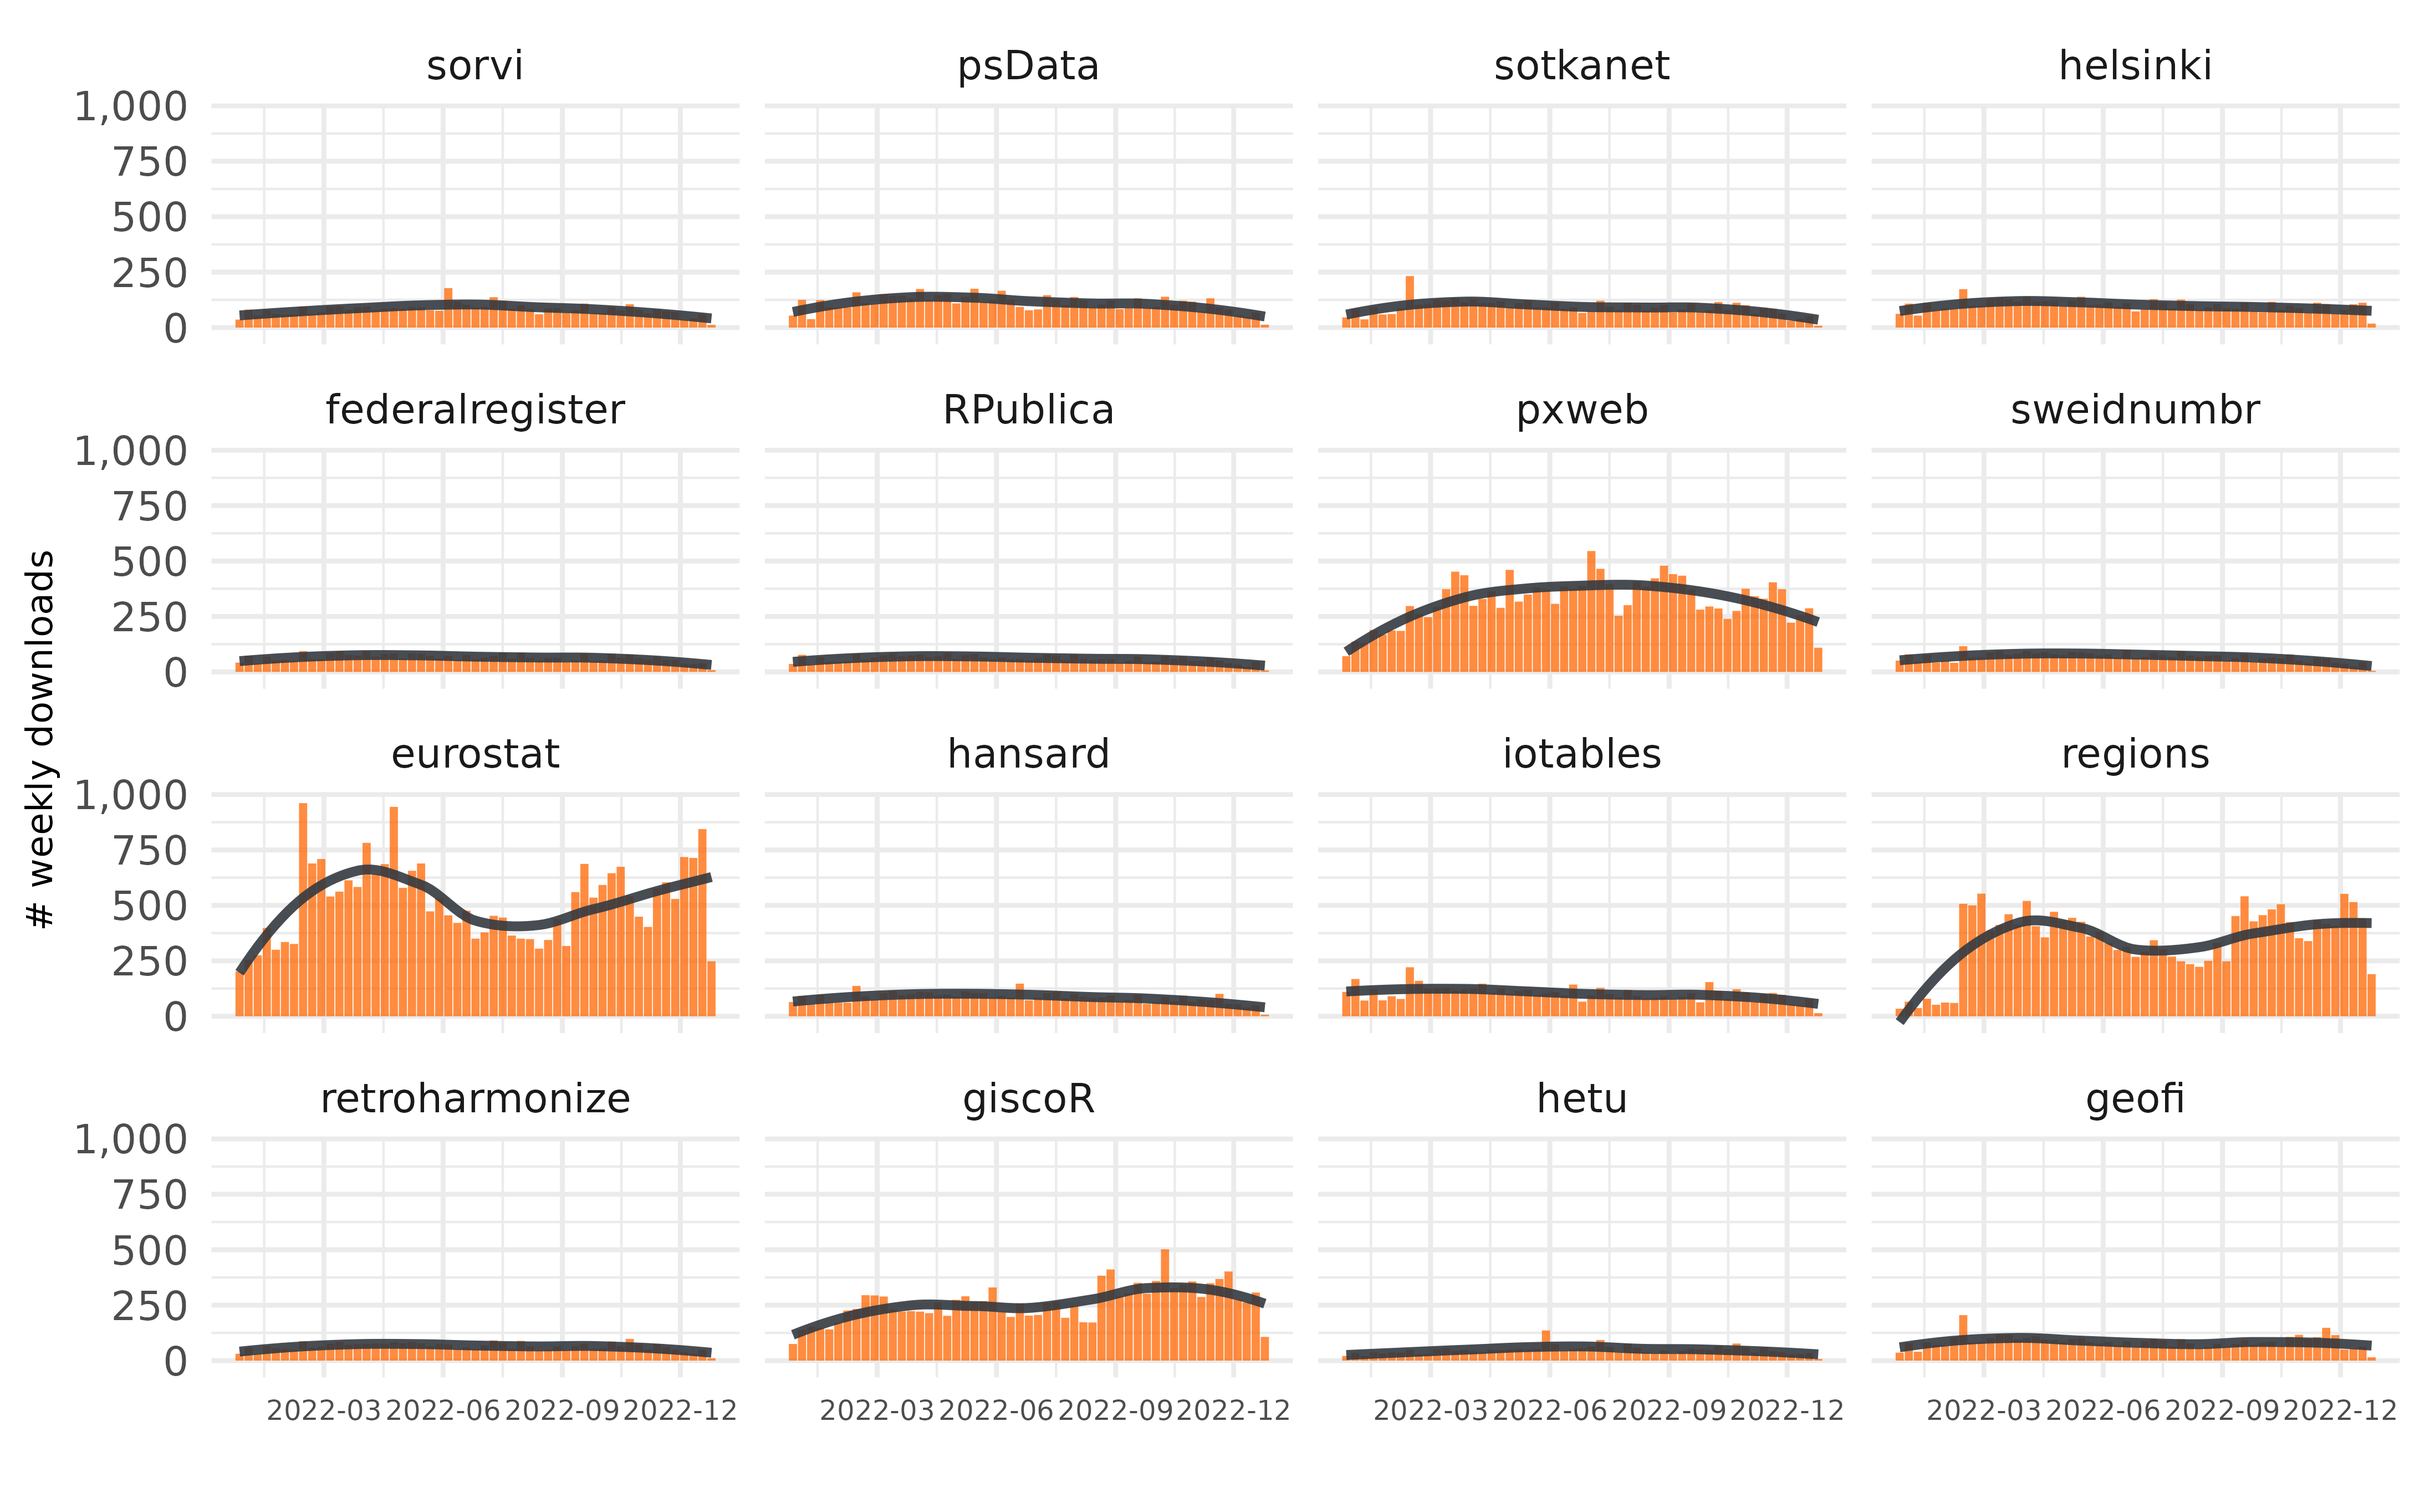
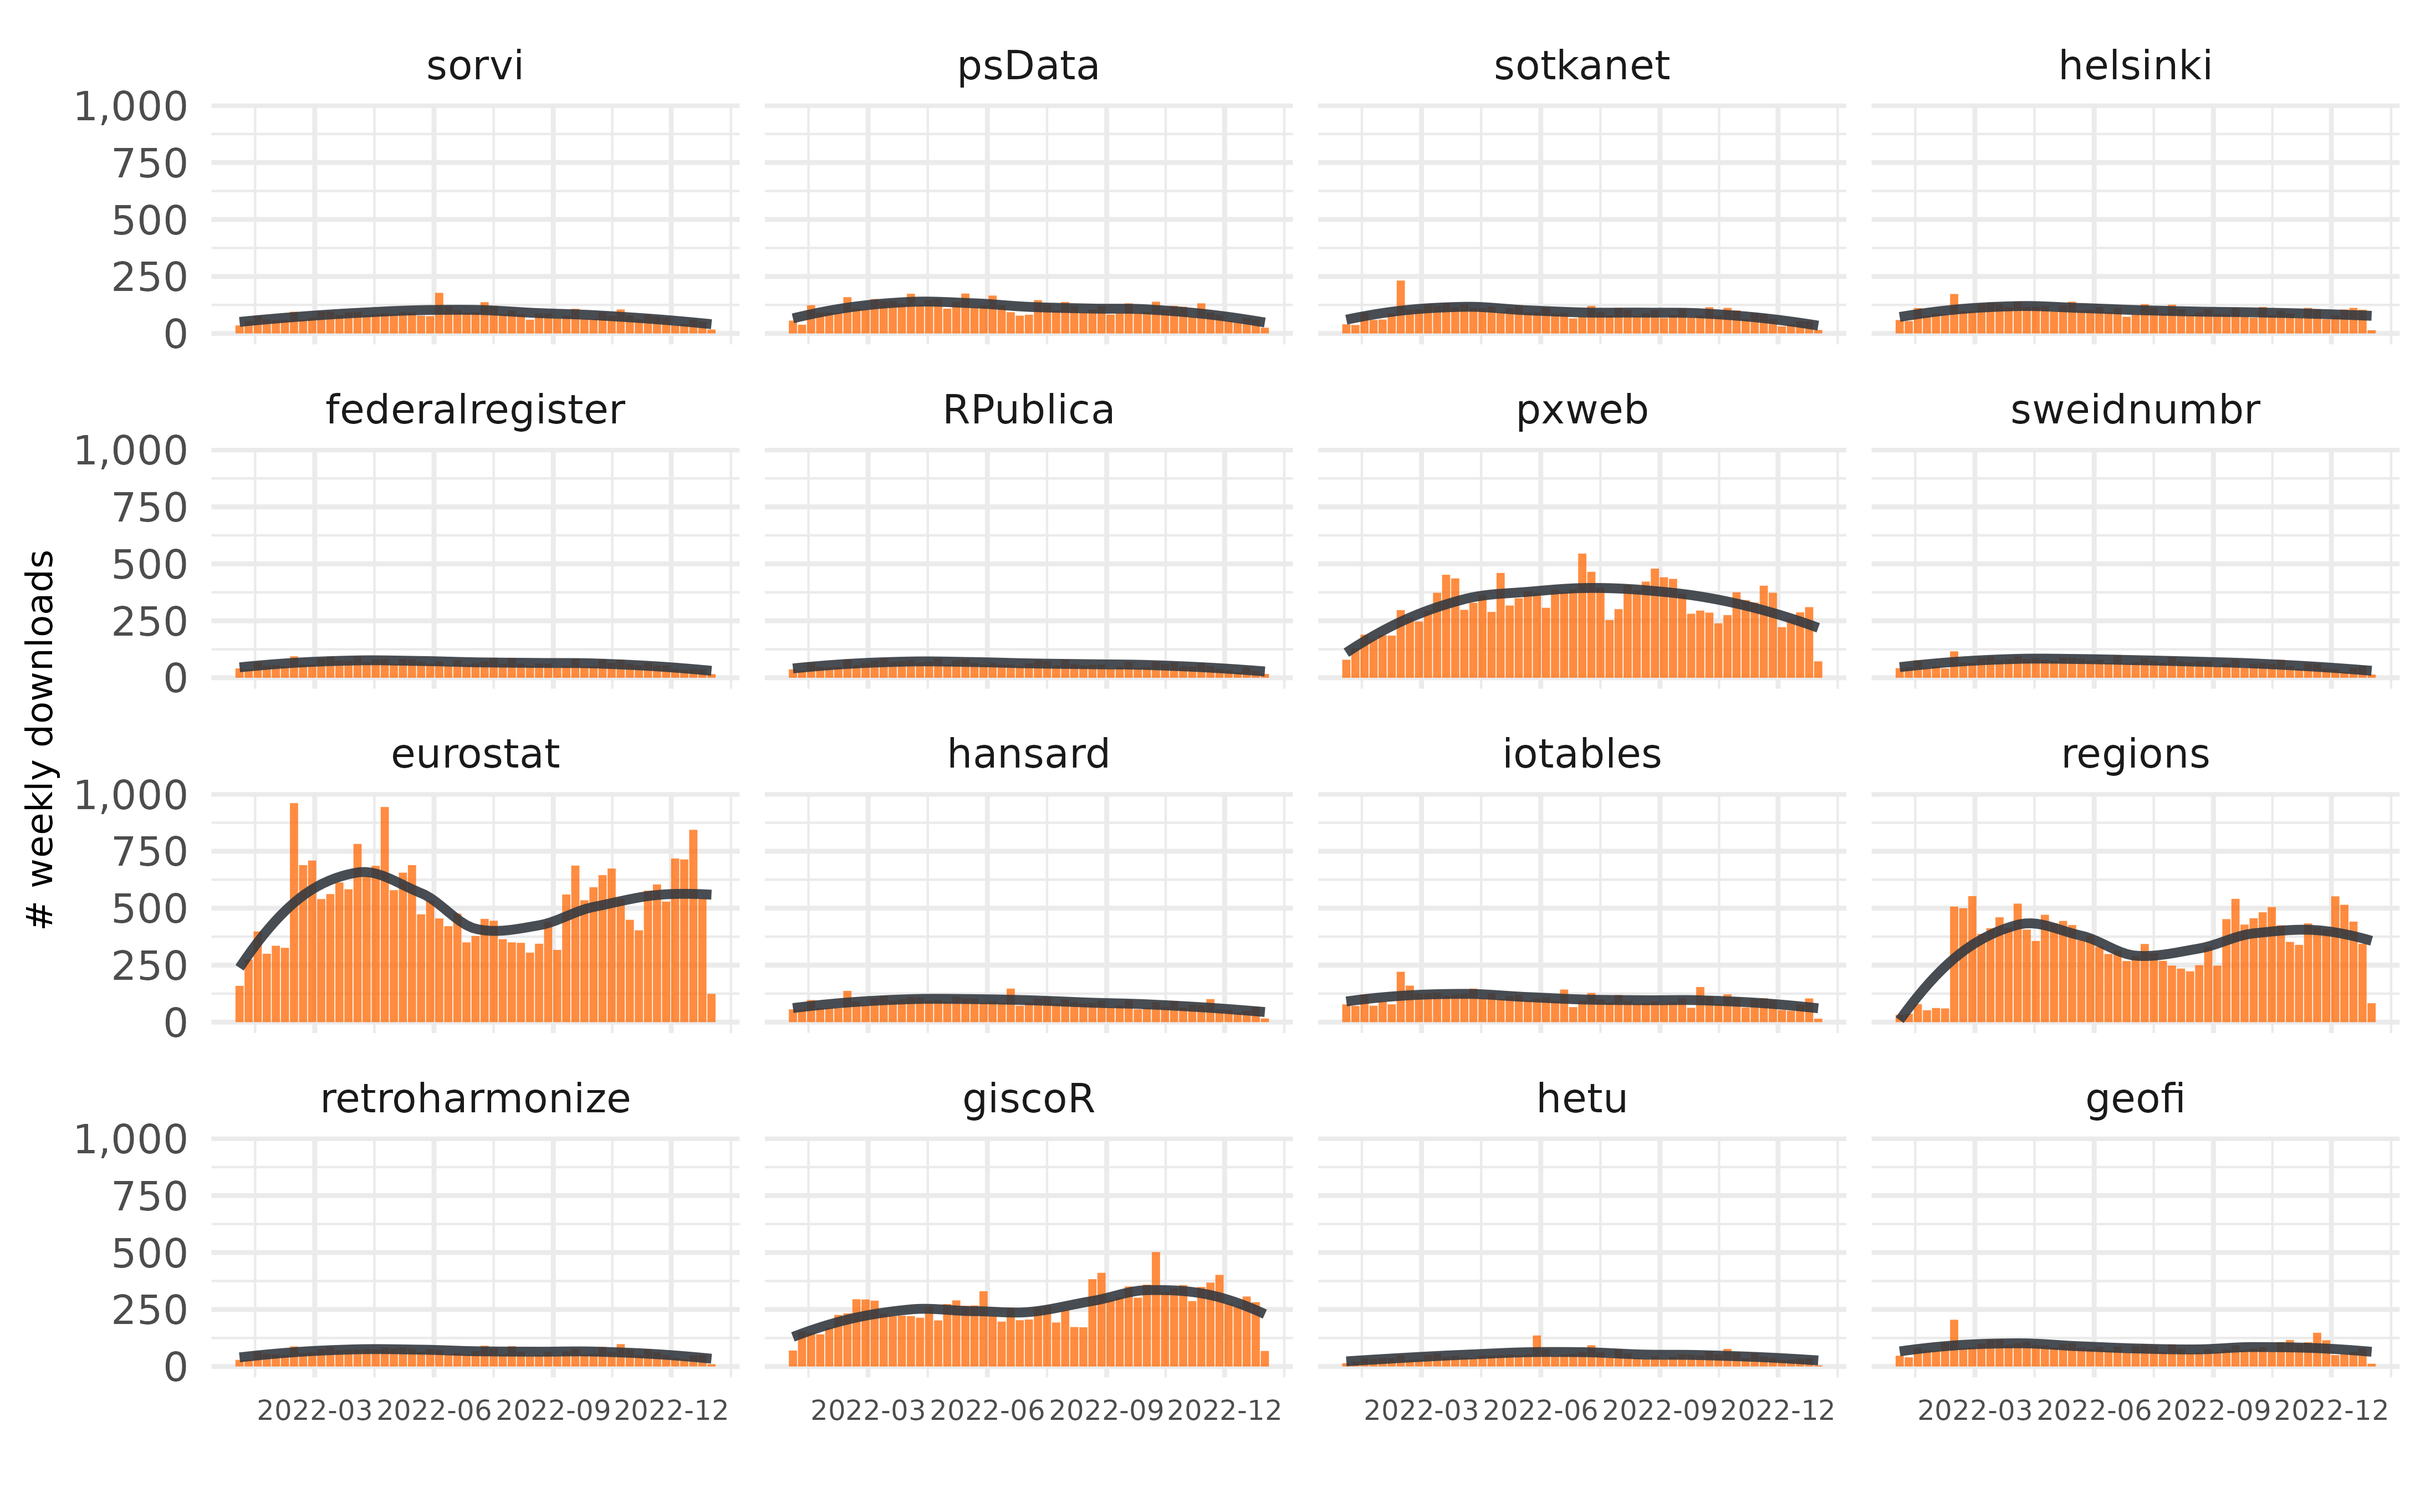
Built site for rogtemplate: 0.0.2.9000@bdcdba0

diff --git a/articles/downloads.html b/articles/downloads.html
@@ -94,7 +94,7 @@
 
     
     
-<p><em>Updated: 22 Dec 2022</em></p>
+<p><em>Updated: 29 Dec 2022</em></p>
 <p>Downloads of rOpenGov packages from CRAN.</p>
 <div class="section level2">
 <h2 id="downloads">Downloads<a class="anchor" aria-label="anchor" href="#downloads"></a>
@@ -110,7 +110,7 @@
 <h2 id="data">Data<a class="anchor" aria-label="anchor" href="#data"></a>
 </h2>
 <div class="reactable html-widget html-fill-item-overflow-hidden html-fill-item" id="station-table" style="width:auto;height:auto;"></div>
-<script type="application/json" data-for="station-table">{"x":{"tag":{"name":"Reactable","attribs":{"data":{"package":["geofi","hetu","giscoR","retroharmonize","regions","iotables","hansard","eurostat","sweidnumbr","pxweb","RPublica","federalregister","helsinki","sotkanet","psData","sorvi"],"on CRAN":["2021-02-20","2020-10-15","2020-10-05","2020-09-21","2020-06-04","2018-01-30","2016-10-31","2015-03-20","2014-09-05","2014-09-03","2014-05-09","2014-05-08","2014-04-13","2014-04-06","2014-02-23","2013-09-30"],"avg daily downloads":[15.1,8.3,33.1,11.4,28.1,16.3,17.8,60.9,11.6,22,10.2,11.4,13.2,11.5,12.8,12],"last day":[6,3,47,5,91,5,2,140,2,62,2,6,5,4,3,4],"last week":[53,24,219,29,345,57,39,532,37,249,35,27,67,40,52,41],"last month":[250,125,1220,172,1985,274,191,2897,144,1161,141,155,360,182,246,204],"last year":[4544,2544,13853,3387,18307,5501,4465,27496,3595,17013,3122,3396,5303,4834,5837,4311]},"columns":[{"id":"package","name":"package","type":"character"},{"id":"on CRAN","name":"on CRAN","type":"Date"},{"id":"avg daily downloads","name":"avg daily downloads","type":"numeric"},{"id":"last day","name":"last day","type":"numeric"},{"id":"last week","name":"last week","type":"numeric"},{"id":"last month","name":"last month","type":"numeric"},{"id":"last year","name":"last year","type":"numeric"}],"filterable":true,"searchable":true,"defaultPageSize":16,"showPageSizeOptions":true,"paginationType":"jump","striped":true,"elementId":"station-table","dataKey":"8ebe6d64498d0f42d186d04f52895395"},"children":[]},"class":"reactR_markup"},"evals":[],"jsHooks":[]}</script>
+<script type="application/json" data-for="station-table">{"x":{"tag":{"name":"Reactable","attribs":{"data":{"package":["geofi","hetu","giscoR","retroharmonize","regions","iotables","hansard","eurostat","sweidnumbr","pxweb","RPublica","federalregister","helsinki","sotkanet","psData","sorvi"],"on CRAN":["2021-02-20","2020-10-15","2020-10-05","2020-09-21","2020-06-04","2018-01-30","2016-10-31","2015-03-20","2014-09-05","2014-09-03","2014-05-09","2014-05-08","2014-04-13","2014-04-06","2014-02-23","2013-09-30"],"avg daily downloads":[15.1,8.2,33.1,11.4,28.1,16.3,17.7,60.9,11.6,22,10.2,11.4,13.2,11.5,12.8,12],"last day":[5,"NA",15,4,33,5,5,45,5,42,2,3,1,5,2,2],"last week":[62,24,193,37,181,91,65,331,55,233,31,36,88,52,62,46],"last month":[240,123,1078,162,1745,279,201,2700,150,1090,137,149,378,175,226,189],"last year":[4554,2536,13952,3375,18476,5406,4441,27616,3568,17157,3086,3367,5292,4803,5787,4285]},"columns":[{"id":"package","name":"package","type":"character"},{"id":"on CRAN","name":"on CRAN","type":"Date"},{"id":"avg daily downloads","name":"avg daily downloads","type":"numeric"},{"id":"last day","name":"last day","type":"numeric"},{"id":"last week","name":"last week","type":"numeric"},{"id":"last month","name":"last month","type":"numeric"},{"id":"last year","name":"last year","type":"numeric"}],"filterable":true,"searchable":true,"defaultPageSize":16,"showPageSizeOptions":true,"paginationType":"jump","striped":true,"elementId":"station-table","dataKey":"b45ef73edd7047d3fa95c6d221bfd797"},"children":[]},"class":"reactR_markup"},"evals":[],"jsHooks":[]}</script>
 </div>
   </main><aside class="col-md-3"><nav id="toc"><h2>On this page</h2>
     </nav></aside>

diff --git a/reference/rog_logo.html b/reference/rog_logo.html
@@ -121,7 +121,7 @@ would run <code><a href="https://usethis.r-lib.org/reference/use_logo.html" clas
 <span class="r-in"><span><span class="va">tmp</span> <span class="op">&lt;-</span> <span class="fu"><a href="https://rdrr.io/r/base/tempfile.html" class="external-link">tempfile</a></span><span class="op">(</span>fileext <span class="op">=</span> <span class="st">".png"</span><span class="op">)</span></span></span>
 <span class="r-in"><span><span class="fu">rog_logo</span><span class="op">(</span><span class="st">"test a package"</span>, <span class="va">tmp</span>, overwrite <span class="op">=</span> <span class="cn">FALSE</span>, favicons <span class="op">=</span> <span class="cn">FALSE</span><span class="op">)</span></span></span>
 <span class="r-msg co"><span class="r-pr">#&gt;</span> B612 Mono font loaded</span>
-<span class="r-msg co"><span class="r-pr">#&gt;</span> Logo created on /tmp/RtmpsFGW3a/file1c4e1ea0c644.png</span>
+<span class="r-msg co"><span class="r-pr">#&gt;</span> Logo created on /tmp/RtmpUfOCH1/file1c24315f3d3f.png</span>
 <span class="r-in"><span></span></span>
 <span class="r-in"><span><span class="co"># Display</span></span></span>
 <span class="r-in"><span><span class="va">logo</span> <span class="op">&lt;-</span> <span class="fu">magick</span><span class="fu">::</span><span class="fu"><a href="https://docs.ropensci.org/magick/reference/editing.html" class="external-link">image_read</a></span><span class="op">(</span><span class="va">tmp</span><span class="op">)</span></span></span>
